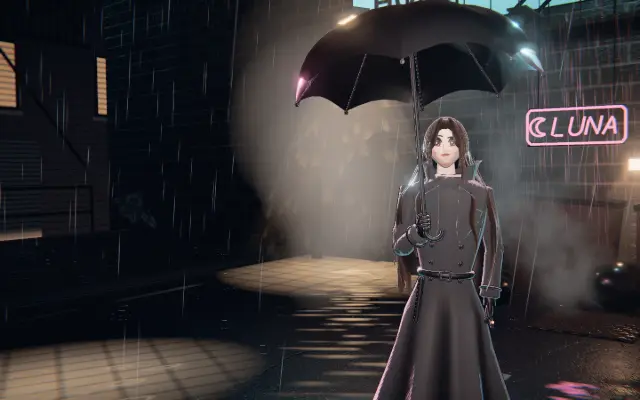
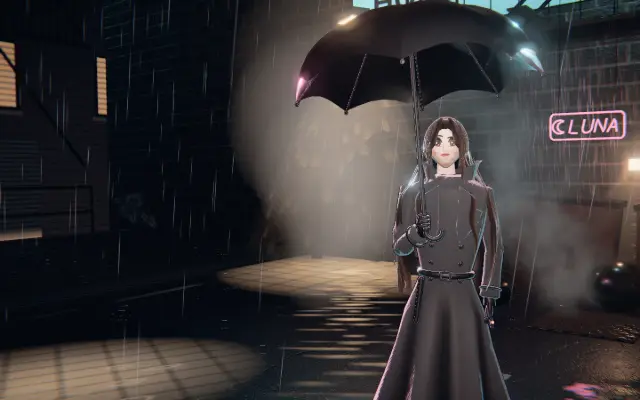
NIGHT SHIFT: phone title shots draw the real framing (setStage redraws a ?shot frame), she stands clear of the menu, the case line wraps beside her (item 294 slice 1); key art re-shot; lane A notes; release .build-lock
Claude-Session: https://claude.ai/code/session_01SimvMP1s6gGgXxujkmKhu9

Changed region(s): [[0.8125, 0.21, 1.0, 0.39], [0.8438, 0.93, 0.9375, 1.0], [0.875, 0.15, 0.9062, 0.18]]

diff --git a/games/cathode/src/styles/front.css b/games/cathode/src/styles/front.css
@@ -830,6 +830,9 @@
   .the-list { bottom: max(var(--safe-y), calc(3svh + var(--u) * 8)); }
   /* Plan item 126: over the photo --ink-3 falls under AA; the hint is her case line, so it reads at --ink-2. */
   .menu-hint { color: var(--ink-2); font-weight: 600; }
+  /* Plan item 294: upright she stands whole beside the menu (from 42% of the width), so the case line keeps to the
+     menu's column and wraps rather than running across her coat with no shade behind it. */
+  .menu-hint { max-width: 40vw; line-height: 1.3; }
   .gate-plate { width: calc(100vw - 2 * var(--safe-x)); }
   /* Plan item 159: upright, the plate is as narrow as its words, so it ends left of her coat; the reason a slot is
      shut sits under its name. Plan item 177: flush with the screen's edge it read as bleeding off it, with the neon

diff --git a/games/cathode/src/main.ts b/games/cathode/src/main.ts
@@ -459,7 +459,9 @@ function stageTitle(): void {
   }
   const m = Math.round(Math.min(innerWidth, innerHeight) * 0.02);
   // The top leaves the umbrella room under the screen's edge so her face falls below the logotype's subtitle.
-  scene?.setStage({ left: m, top: Math.round(innerHeight * 0.03), right: innerWidth - m, bottom: wall.top - Math.max(4, m / 2) });
+  // Plan item 294: from 11% down, not 3%, so she stands ~10% smaller and her coat clears the menu plate (at 3% the
+  // right-aligned figure's left edge ran 13 px under the plate at 390x844).
+  scene?.setStage({ left: m, top: Math.round(innerHeight * 0.11), right: innerWidth - m, bottom: wall.top - Math.max(4, m / 2) });
 }
 addEventListener("resize", () => {
   stageTitle();

diff --git a/games/cathode/src/render/frontscene.ts b/games/cathode/src/render/frontscene.ts
@@ -945,13 +945,18 @@ export async function openFrontScene(canvas: HTMLCanvasElement, o: FrontSceneOpt
     set time(v: number) {
       time = v;
     },
+    // Plan item 294: a screenshot run draws only on `setTime`, so a stage that arrives after the first draw (the
+    // List's wall lays out after the scene opens) redraws the frozen frame; the phone title's shots showed her
+    // cropped at the List under a framing no live frame ever drew.
     setStage(r) {
       stage = r;
       cloudAge = Infinity;
+      if (o.shot) frame(0);
     },
     setPickStage(r) {
       pickStage = r;
       cloudAge = Infinity;
+      if (o.shot) frame(0);
     },
     setLift(k) {
       liftWant = THREE.MathUtils.clamp(k, 0, 1);

diff --git a/PROGRESS.md b/PROGRESS.md
@@ -3,7 +3,7 @@
 Short by design (SPEC 16: under 150 lines). v1's full history (M0 to M7, every session's notes and the full deploy log) is in `docs/archive/PROGRESS-v1.md`; search it with grep and never read it in full.
 
 ## Now
-- Lane A (17:51, 11-08): CI red on bcf7e40 (keyart-fresh: Hedgerow's poster after item 297) fixed by a re-shoot; item 289 closed; item 294 claimed (NIGHT SHIFT phone title and pick). **The 19:51 session releases.**
+- Lane A (17:51, 11-08): CI red on bcf7e40 (keyart-fresh: Hedgerow's poster after item 297) fixed by a re-shoot; item 289 closed; item 294 slice 1 (the P title shot's stale framing fixed at the hook; the case line wraps beside her). Next: 294's pick at P. **The 19:51 session releases.**
 - Critique bugs from the 09:35 shots (`e2e/screenshots/plan1103d/`): NIGHT SHIFT wordmark 'H's: closed 2026-11-07 06:30 (lane A: whole at L and D at 8 s and 20 s; the SVG path, no dash left). Runnel P's spring house and garden: closed 2026-11-04 (item 106).
 - Lane B (18:21, 11-08): item 298 done (Runnel: drizzle keeps the hour's colour with a sunbreak, sparser rain, long low-sun shadows at golden hour and morning); item 301 claimed, slice 1 (the plan cards' target line 13 px in full slate). Lane B's open items: 267, 268, 282, 285, 297, 301.
 - Critique bugs from the 2026-11-08 08:15 shots (`e2e/screenshots/plan1108b/`, lane A): `hedge-menu-D` the act-4 'Beyond the hedge' note cut at the viewport foot (527-913 x 850-900, likely just the scroll); `hedge-menu-P` Hollowell boards beside 'The Unboxing' (10-100 x 380-405) and 'Golden Hour' (10-100 x 455-480), a block against 'Brand Ambassador' (320-385 x 515-555). The rest went into items 282, 283, 287 and 288.
@@ -38,6 +38,7 @@ None (Vercel deployed 9aee11e on 2026-10-12). (The App Store launch is postponed
 
 ## Session log (newest first, last 15)
 - **2026-11-08 18:21 lane B session:** CI green on 3af25da (lane A re-shot Hedgerow key art after item 297: lane B now re-shoots in the same commit). Item 298 done, 301 slice 1. Passing: runnel tests (108); runnel-valley, -board, -week-valley, -fields, -water, -terrace, -lesson-hand (runnel-tiles 'P, dark' 2.9476 known local); plan-strip, board-scale, papers-placard, desktop-no-scroll, screenshots; keyart-fresh.
+- **2026-11-08 17:51 lane A session:** CI red on bcf7e40: keyart-fresh (Hedgerow's poster stale after item 297), re-shot. Item 289 closed (crown streak probed, source still open); item 294 slice 1. Passing: keyart-fresh; cathode-front, -title-diorama (25 at P; D's first 32 before the upright-only change); keyart-fresh after the NIGHT SHIFT re-shoot; ui-css-lint, cathode-type; tsc, eslint. Full `npm run check` not run (time). Shots scratchpad f289d, probe, t294.
 - **2026-11-08 16:51 lane A session:** CI: runs since 38482c7 cancelled by newer pushes (none red). Item 289 slice 3. Passing: e2e-site cathode-front, -classpick, -title-diorama (63, 17 skipped by project); cathode-silhouettes, -classposes, -models, -frontwet (117); keyart-fresh after the NIGHT SHIFT re-shoot; tsc, eslint; full `npm run check` passed (2547 tests). No new meshes (draw calls unchanged). Shots scratchpad f289c.
 - **2026-11-08 17:21 lane B session:** CI green on 957a342. Item 297 slices 1-2. Passing: hedgerow-debrief, -flyin, -critique, -tray, -gatequeue, -catdock; hedgerow-threat D l12 fails locally with or without the change (CI green).
 - **2026-11-08 16:51 lane A session:** CI: runs since 38482c7 cancelled by newer pushes (none red). Item 289 slice 3. Passing: e2e-site cathode-front, -classpick, -title-diorama (63, 17 skipped by project); cathode-silhouettes, -classposes, -models, -frontwet (117); keyart-fresh after the NIGHT SHIFT re-shoot; tsc, eslint. No new meshes (draw calls unchanged). Shots scratchpad f289c.

diff --git a/docs/plan/two-week-plan.md b/docs/plan/two-week-plan.md
@@ -2872,7 +2872,7 @@ The items come from fresh-eyes audits on 2026-11-01 and 2026-11-02 (items 25-32:
 - **Accept:** tower art 64 px+ at D and 48 px+ at P; labels 12 px+ at 4.5:1; placement e2e in ?2d passes; shots P and D.
 - **Size:** 2
 
-## 294. [ ] NIGHT SHIFT: the phone title and operative pick recomposed *(lane A, in progress)*
+## 294. [ ] NIGHT SHIFT: the phone title and operative pick recomposed *(lane A, in progress)* *(slice 1, 2026-11-08 18:40 lane A: **the critique's P title was a stale shot**: under `?shot` the scene draws only on `setTime`, and the stage (the screen above the List's wall) arrives after the first draw, so shots froze her cropped at the List under a framing no live frame draws; `setStage`/`setPickStage` now redraw a shot's frame. In the real framing her coat ran 13 px under the menu plate (title-diorama's 'menu stays clear of her body' passed only on the stale frame), so upright her stage starts at 11% of the height (was 3%): she stands about 10% smaller, whole, clear of the plate. Upright, the case line under the menu keeps to the menu's column (40vw) and wraps instead of crossing her coat with no shade. cathode-front, -title-diorama pass at P (25) and D; key art re-shot; shots scratchpad t294 before/after2/after3. Left: the pick at P (a small, dark figure over a stats card that takes the lower third: the card as a drawer, operatives swiped with her turning))*
 - **Why:** `plan1108c/ns-title-P` (10-180 x 205-435): the menu plate lies over Cath's body at similar brightness; `ns-play-P` (160-240 x 225-420): the operative is small and the clipped HOLLOWELL sign meets the heading (190-390 x 0-60).
 - **Build:** at P the figure large in the upper 55% with a scrim behind the menu; operatives swiped with the figure turning; the stats card as a drawer.
 - **Accept:** figure 300 px+ tall at P; no text over the figure without a scrim, 4.5:1; NIGHT SHIFT specs pass; shots P and D.

diff --git a/DECISIONS.md b/DECISIONS.md
@@ -361,3 +361,6 @@ Newest at the bottom. At most 5 lines per entry, under 250 lines in all (SPEC 16
 - 2026-11-08 17:30 lane B (item 297): the coached plot is the bot's own choice (`suggestedPlot`), shown only while two or fewer towers stand and the advised tower isn't built yet, so the hint guides a first build and then gets out of the way.
 - 2026-11-08 18:25 lane B: a slice that touches a key-art source (scripts/keyart-sources.mjs) re-shoots that game's key art in the same commit (item 297 slice 1 missed it; lane A fixed CI).
 - 2026-11-08 18:30 lane B (item 298): drizzle is drawn as a light rain over the hour's own light (sunbreak glow, sparse drops thinning across a band) rather than an overcast grey, matching the day card's 'Golden hour, light drizzle'.
+- 2026-11-08 18:20 lane A (item 289): closed with the crown's pale streak unexplained: a hair-only render shows it as a lit band on the cap that changes between redraws at a fixed time; the ring, the groove, env, specular, sheen and the cap's rim were each ruled out. Probe redraws in `?shot` need `setTime` (a bare property change draws nothing).
+- 2026-11-08 18:40 lane A (item 294): the phone title critique was of a stale `?shot` frame (the stage arrives after the first draw); fixed in the hook (`setStage` redraws a shot), not by moving her, since the live title already stands her whole beside the menu.
+- 2026-11-08 18:55 lane A (item 294): upright, the title's stage starts at 11% of the height (was 3%), so her coat clears the menu plate; the honest frame showed a 13 px overlap the stale shots had hidden.
